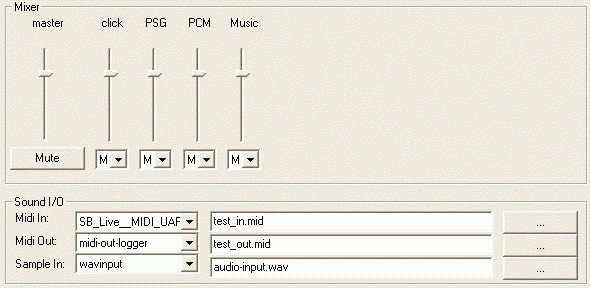
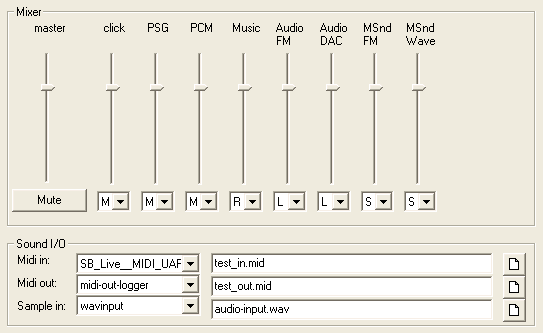
updated manual
git-svn-id: file:///openmsx-svn/code/wxcatapult/trunk@8898 7512d703-071c-0410-b5c2-d2bdd895b7d1

Changed region(s): [[0.0, 0.0, 1.0, 1.0], [0.5009, 0.1562, 0.5599, 0.5312]]

diff --git a/doc/manual/user.html b/doc/manual/user.html
@@ -32,8 +32,9 @@
 			<li><a class="internal" href="#tour_misc">3.2. Miscellaneous Control Page</a></li>
 			<li><a class="internal" href="#tour_video">3.3. Video Control Page</a></li>
 			<li><a class="internal" href="#tour_audio">3.4. Audio Control Page</a></li>
-			<li><a class="internal" href="#tour_status">3.5. Status Page</a></li>
-			<li><a class="internal" href="#tour_global">3.6. Global Section</a></li>
+			<li><a class="internal" href="#tour_input">3.5. Input Text</a></li>
+			<li><a class="internal" href="#tour_status">3.6. Status Page</a></li>
+			<li><a class="internal" href="#tour_global">3.7. Global Section</a></li>
 		</ol>
 	</li>
 	<li><a class="internal" href="#session">4. Using the Session Page</a>
@@ -50,8 +51,10 @@
 			<li><a class="internal" href="#audio">5.3. Audio Control Page</a></li>
 		</ol>
 	</li>
-	<li><a class="internal" href="#status">6. Status Display</a></li>
-	<li><a class="internal" href="#contact">7. Contact Info</a></li>
+	<li><a class="internal" href="#input">6. Input Text</a></li>
+	<li><a class="internal" href="#status">7. Status Display</a></li>
+	<li><a class="internal" href="#menu">8. Using the menu</a></li>
+	<li><a class="internal" href="#contact">9. Contact Info</a></li>
 </ol>
 
 <h2><a id="intro">1. Introduction</a></h2>
@@ -138,6 +141,10 @@ only the big picture.
 <dd>
 Initial version. 
 </dd>
+<dt>2004-10-05: Herman Oudejans</dt>
+<dd>
+Updated for version 0.5.0
+</dd>
 
 </dl>
 
@@ -175,13 +182,13 @@ scanned anyway. After you press the OK button, Catapult's main screen appears, a
 </p>
 
 <p class="image">
-<img src="mainscreen.png" width="609" height="428" alt="Main Screen"></img>
+<img src="mainscreen.png" width="555" height="465" alt="Main Screen"></img>
 </p>
 
 <h2><a id="tour">3. A Quick Tour</a></h2>
 
 <p>
-The main screen of Catapult consists of 5 pages to separate different kinds 
+The main screen of Catapult consists of 6 pages to separate different kinds 
 of functionality. This creates a much clearer interface than trying to put 
 everything on one page. This Section introduces the different pages and how they 
 can be used. It also tells about the global section of Catapult.
@@ -212,7 +219,7 @@ This page contains three types of controls:
 <ul>
 <li>controls to set the speed and frame skip of openMSX.</li>
 <li>controls to push special buttons on the MSX within openMSX like power and reset.</li>
-<li>controls to plug devices into the joystick ports of the MSX.</li>
+<li>controls to plug devices into the ports of the MSX.</li>
 </ul>
 
 <p>
@@ -223,7 +230,8 @@ This page contains three types of controls:
 
 <p>
 This page contains all controls to select how openMSX should display the MSX 
-screen. Some of this controls can cause openMSX to slow down.
+screen. Some of this controls can cause openMSX to slow down. This page also 
+contains some controls to let openMSX make screenshots.
 [<a class="internal" href="#video">details</a>]
 </p>
 
@@ -238,7 +246,14 @@ MSX computer is emulated.
 [<a class="internal" href="#audio">details</a>]
 </p>
 
-<h3><a id="tour_status">3.5. Status Page</a></h3>
+<h3><a id="tour_input">3.5. Input Text</a></h3>
+<p>
+This page can be used to 'type' text in openMSX. Any text typed or copied into the text field
+can be typed into the emulated MSX including newlines.
+[<a class="internal" href="#input">input</a>]
+</p>
+
+<h3><a id="tour_status">3.6. Status Page</a></h3>
 
 <p>
 This page contains the messages Catapult gets from openMSX. This can be information 
@@ -248,7 +263,7 @@ selects this page.
 [<a class="internal" href="#status">status</a>]
 </p>
 
-<h3><a id="tour_global">3.6. Global Section</a></h3>
+<h3><a id="tour_global">3.7. Global Section</a></h3>
 
 <p>
 The global section can be found in the bottom of the Catapult screen. It 
@@ -270,7 +285,7 @@ still be easily recognisable.
 </p>
 
 <p class="image">
-<img src="session.png" width="596" height="296" alt="Session Page"></img>
+<img src="session.png" width="541" height="334" alt="Session Page"></img>
 </p>
 
 <h3><a id="hardware">4.1. Selecting Hardware</a></h3>
@@ -398,7 +413,7 @@ openMSX is not running, all controls will be disabled.
 </p>
 
 <p class="image">
-<img src="misc.png" width="590" height="259" alt="Miscellaneous Controls Page"></img>
+<img src="misc.png" width="543" height="328" alt="Miscellaneous Controls Page"></img>
 </p>
 
 <p>
@@ -406,15 +421,12 @@ The top section of this page consist of a number of controls with which you can
 influence the speed and frame skip setting of openMSX. The upper row controls
 the speed percentage of openMSX. You can use the slider to select a speed
 between 1 and 500%. You can also directly input the speed into the input box.
-Finally, the buttons on the right are to set the speed to respectively 100 and
-500%. If the selected speed is higher than your PC can manage, openMSX will try
-to go as fast as possible. The next row selects how many frames may be maximally
-skipped to maintain the chosen speed. The controls here work similar to the
-speed controls. Finally, there's the throttle button. This button toggles
-between throttle on or off. When throttle is off, openMSX tries to go as fast as
-possible, skipping the maximum amount of frames you set with the frame skip
-setting. If the throttle is on, openMSX will maintain 50 or 60 fps (depending on
-the MSX display frequency).
+Finally, the buttons on the right are to set the speed to respectively 100% and
+the maximum. If the Max Speed Button is used, all limits are removed. Very usefull
+to fastforward demo's or loading screens. If the selected speed is higher than your 
+PC can manage, openMSX will try to go as fast as possible. The next rows selects how 
+many frames may be maximally skipped to maintain the chosen speed and how many frames 
+are minimally skipped.
 </p>
 
 <p>
@@ -427,13 +439,23 @@ choose whether or not you want to enable the firmware in the MSX you are
 emulating (this is called the frontswitch setting in openMSX).
 </p>
 
+<p> 
+The bottom of the page allows you to hook devices to the MSX connectors. 
+</p>
 <p>
-The bottom of this page allows you to put devices into the MSX joystick ports. 
-For each port, you can choose between a mouse, keyjoystick and any joysticks 
+For each joystick port, you can choose between a mouse, keyjoystick and any joysticks 
 hooked up to the PC. If you select the same device for both ports, you get a 
 warning and a request for confirmation. This allows you to choose which port the 
 selected device should be in. These are the only controls that can be modified 
-before openMSX is started.
+before openMSX is started. You can also adjust the Ren Sha Turbo speed (Joystick autofire)
+if the current MSX supports it (MSXturboR).
+</p>
+<p>
+You can hook a Printer logger or SIMPL in the printerport. When you choose the Printer logger,
+you can also choose which file to use for the log by either typing it directly or browsing for it.
+If you plug SIMPL (a very simple Digital to Analog Converter) into the printer port, openMSX
+supports it as an extra audio device. You can also see a slider for it appearing it the Audio Controls
+page.
 </p>
 
 <h3><a id="video">5.2. Video Control Page</a></h3>
@@ -444,7 +466,7 @@ If openMSX is not running, all controls will be disabled.
 </p>
 
 <p class="image">
-<img src="video.png" width="592" height="291" alt="Video Control Page"></img>
+<img src="video.png" width="544" height="334" alt="Video Control Page"></img>
 </p>
 
 <p>
@@ -491,11 +513,30 @@ to Catapult (using ALT-TAB) and simply deselecting full screen again.
 </p>
 
 <p>
-The lower half of this page allows you to modify the openMSX screen. All of 
+The center part of this page allows you to modify the openMSX screen. All of 
 these settings can be controlled by using the slider, typing the value directly 
 into the edit field or using the reset button to revert to the default state. 
 These settings are pretty much self-explanatory. Blur and Glow are only 
 supported in the SDLGL renderer.
+</p>
+
+<p>
+The bottom line of the page can be used to create screenshots from openMSX. As soon as 
+a filename is available in the first box, the second box will show a counter. This counter is
+based on the number of files that allready exist. So if <code>test</code> is 
+typed and <code>test0001</code>, <code>test0002</code> and <code>test0003</code>
+exists, then the counter will show <code>0004</code>. The browse button can also be used
+to set a filename, however the counter part will recalculated. So even if you browse and try
+to open <code>test0002</code> the result will still be <code>test0004</code>.
+You can also override the counter by just typing another number, but as soon as you change the name
+again, the counter will be recalculated. Normally, there is no reason to override the counter.
+</p>
+<p>
+Finally, pressing the Grab button takes the screenshot. If the filename and counter fields are empty
+openMSX will take a screenshot with the default settings. The first time, there will be a message that
+the shot has been taken and that the location is shown in the Status page, since no further changes
+are noticable. You can disable this message when it pops up. The location of the screenshot taken 
+will be shown in the Status page.
 </p>
 
 <h3><a id="audio">5.3. Audio Control Page</a></h3>
@@ -507,7 +548,7 @@ a simple message will be displayed stating: "No audio channel data available".
 </p>
 
 <p class="image">
-<img src="audio.png" width="590" height="288" alt="Audio Controls Page"></img>
+<img src="audio.png" width="543" height="333" alt="Audio Controls Page"></img>
 </p>
 
 <p>
@@ -549,7 +590,25 @@ or <code>wavinput</code>. In case of <code>wavinput</code>, the field besides it
 the PCM input is taken.
 </p>
 
-<h2><a id="status">6. Status Display</a></h2>
+<h2><a id="input">6. Input Text</a></h2>
+<p>
+Below, there's a picture of the Input Text page.
+</p>
+<p class="image">
+<img src="input.png" width="545" height="334" alt="Audio Controls Page"></img>
+</p>
+<p>
+This page contains only three controls. The big text field can be used to type or paste any text you want
+typed out in the emulated MSX. Please be advised that typing special characters like german or spanish 
+specific characters, the communiction between openMSX and catapult can be lost. All characters typed in 
+this field will be typed in the MSX, so it could take a while when there's a large text.
+Any newlines within this field will result in an <code>enter</code> in the MSX.
+The text is transmitted to the MSX as soon as the type button is used. The text will not be automaticly cleared,
+so the same text can be used multiple times. 
+Finally, the clear button clears the text, so you can start over.
+</p>
+
+<h2><a id="status">7. Status Display</a></h2>
 
 <p>
 The status display of Catapult consists of four different elements:
@@ -574,7 +633,7 @@ whenever openMSX is started.
 </p>
 
 <p class="image">
-<img src="status.png" width="599" height="298" alt="Status Page"></img>
+<img src="status.png" width="544" height="334" alt="Status Page"></img>
 </p>
 
 <p>
@@ -601,7 +660,58 @@ below 50 fps, your computer is actually a bit to slow to generate all frames in
 time with the current settings and thus frames are being skipped.
 </p>
 
-<h2><a id="contact">7. Contact Info</a></h2>
+<h2><a id="menu">8. Using the menu</a></h2>
+<p>
+Although most of the catapult action is done using the various pages mentioned above, there
+are a few options only available though the pulldown menu. These options are described briefly 
+in this section.</p>
+
+<dl>
+<dt>
+Quit
+</dt>
+<dd>
+This closes catapult. If there is a running openMSX (started by this instance of catapult) it will be
+closed also. 
+</dd>
+<dt>
+Edit Configuration
+</dt>
+<dd>
+Here you can change which openMSX version catapult is to start. It also lets you choose were the 
+shared openMSX settings can be found.
+</dd>
+<dt>
+Load openMSX Settings
+</dt>
+<dd>
+Here you can browse for an openMSX settings file to be used. This settings file will be used the next
+time you start openMSX. This option is not saved when you close catapult.
+</dd>
+<dt>
+Save openMSX Settings
+</dt>	
+<dd>
+This option is only available when openMSX is running. You can ask openMSX to save it's settings to
+the default location.
+</dd>
+<dt>
+Save openMSX Settings As
+</dt>	
+<dd>
+This option is only available when openMSX is running. You can ask openMSX to save it's settings to
+a specified location.
+</dd>
+<dt>
+About
+</dt>
+<dd>
+Shows information about catapult including the version number
+</dd>
+</dl>
+
+
+<h2><a id="contact">9. Contact Info</a></h2>
 
 <p>
 Since Catapult is still in heavy development, feedback and bug reports are very
@@ -646,7 +756,7 @@ bug or request.
 </p>
 
 <p class="version">
-$Id: user.html,v 1.4 2004/05/13 17:57:25 h_oudejans Exp $
+$Id: user.html,v 1.5 2004/05/14 02:26:59 mthuurne Exp $
 </p>
 
 </body>
